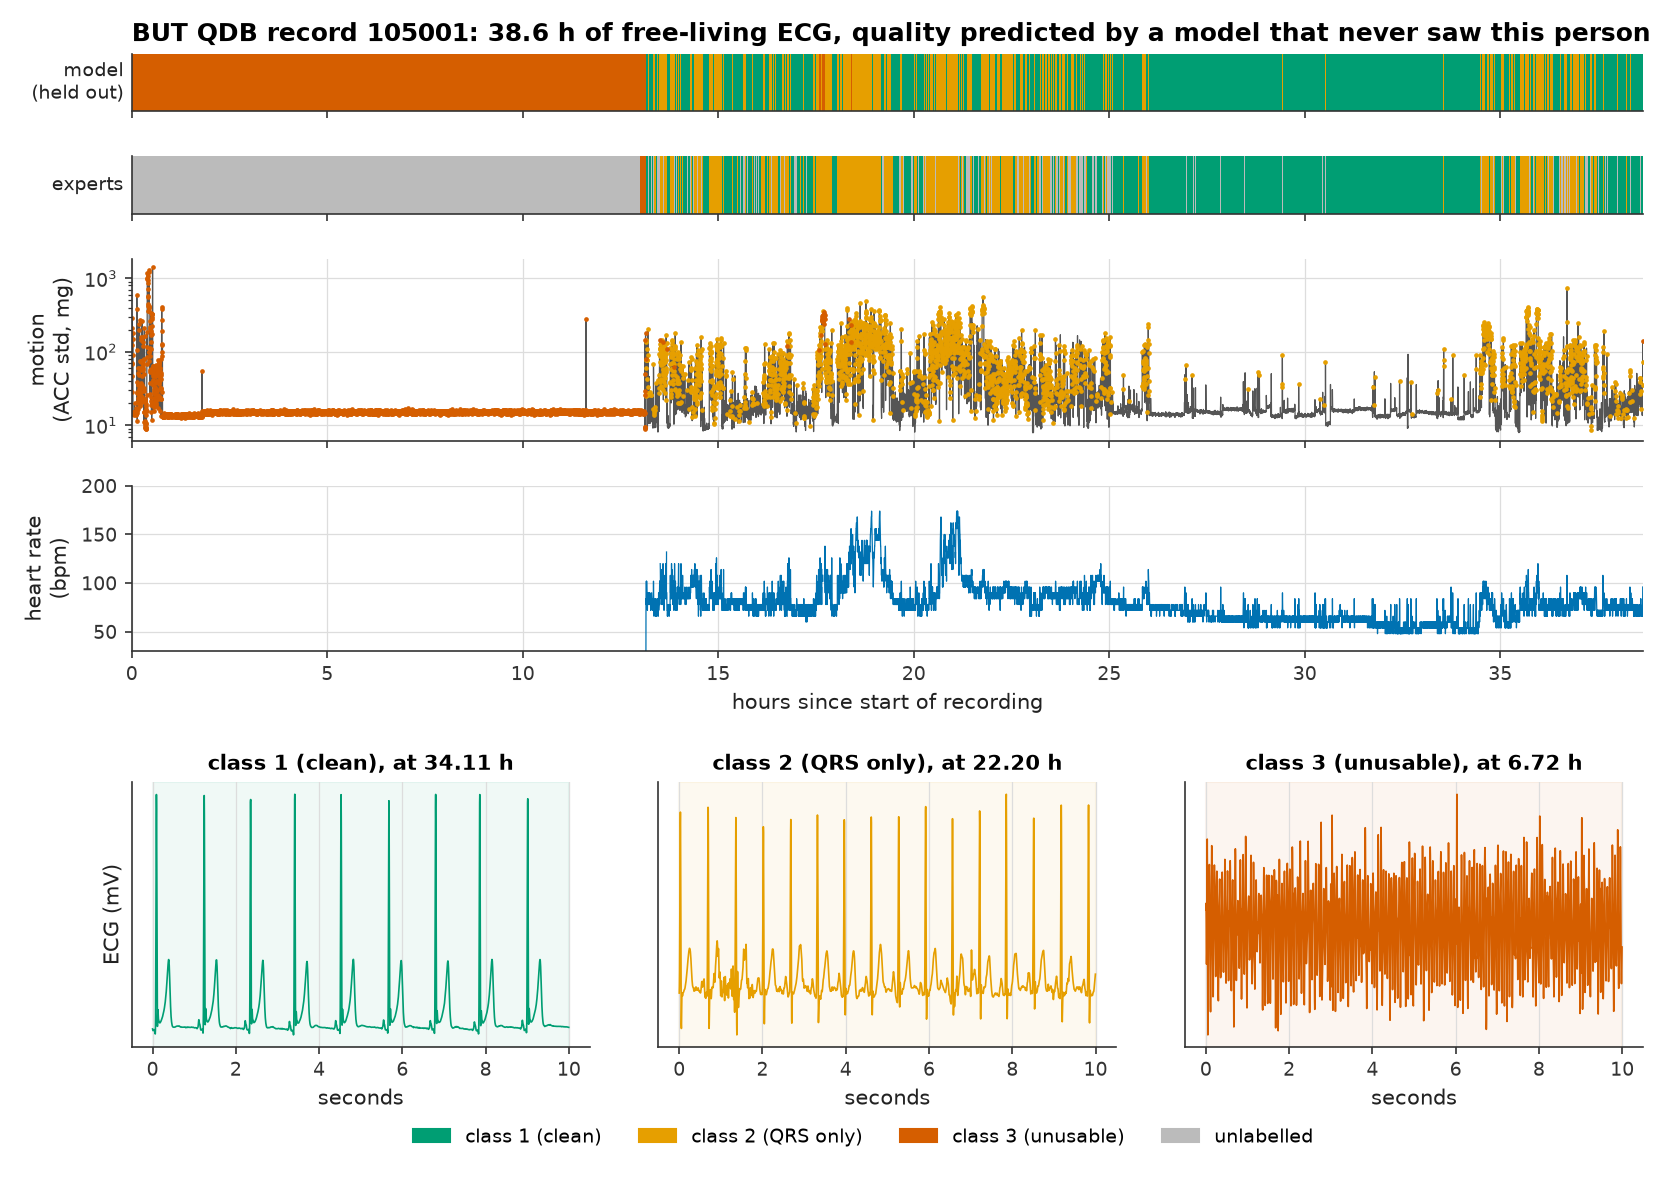
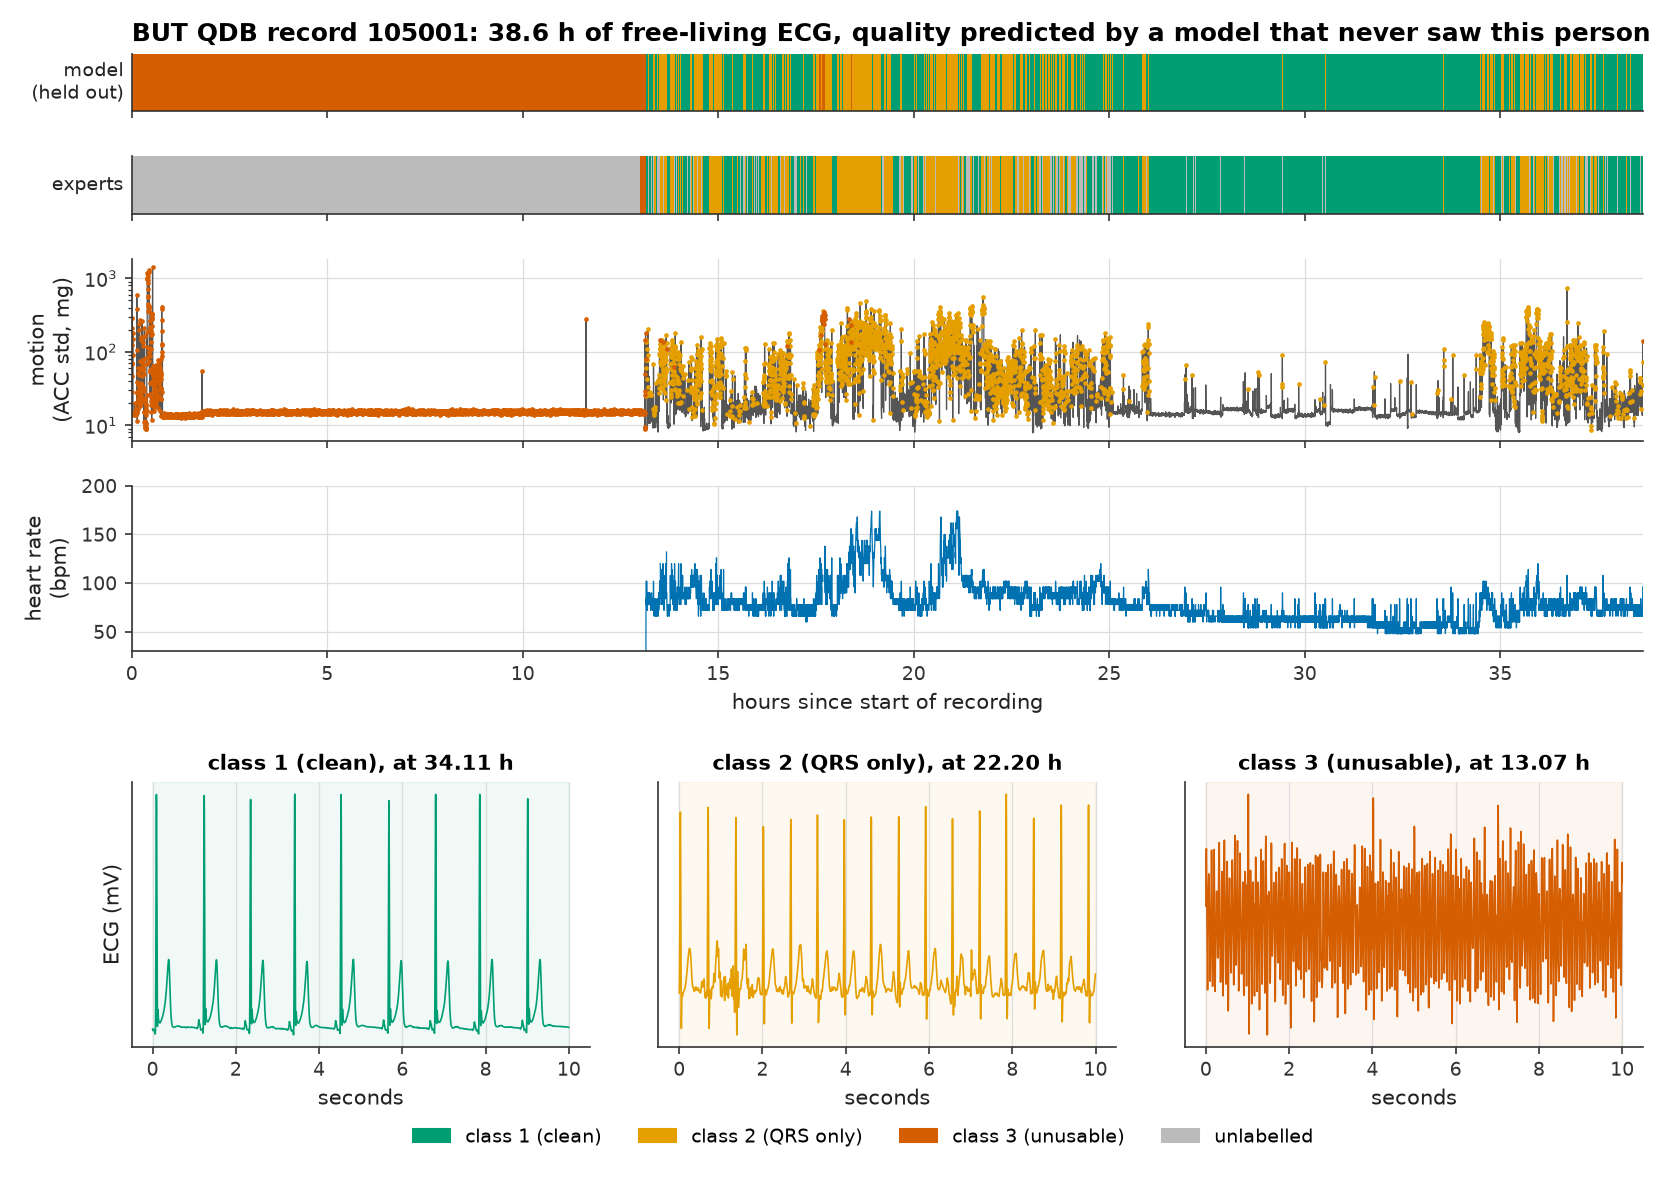
docs: pre-publish review fixes
- correct clean-window rejection claims (GBM 0.5 % and rule 6 % at -6 dB)
- qualify detector and baseline comparisons; plain-language one-liner
- window counts with and without the official ranges (count_windows.py)
- day figure examples restricted to official labels; caption explains the off-body stretch
- research-question figure titles no longer overlap; smaller hero GIF
- Quickstart lists every command behind the demo visuals
- strip local paths from logs; add notebooks/README.md

Changed region(s): [[0.7149, 0.7035, 0.9946, 0.887], [0.746, 0.6423, 0.9635, 0.6729]]

diff --git a/scripts/count_windows.py b/scripts/count_windows.py
@@ -1,0 +1,53 @@
+"""Count labelled 10 s windows per BUT QDB record, with and without the official ranges.
+
+`all_*` columns count every pure consensus-labelled window. `official_*` columns count only
+windows inside the dataset authors' annotated ranges (ecgq.io.OFFICIAL_RANGES), which is
+what every model in this project is trained and evaluated on (DECISIONS D14).
+
+Writes reports/metrics/butqdb_window_counts.csv (replacing the build-time version).
+
+Usage:
+    python scripts/count_windows.py --config configs/quality_butqdb.yaml
+"""
+
+from __future__ import annotations
+
+import argparse
+
+import numpy as np
+import pandas as pd
+
+from ecgq.io import official_window_mask, subject_of
+from ecgq.utils import REPO_ROOT, load_config
+
+
+def main(argv=None) -> int:
+    ap = argparse.ArgumentParser(description=__doc__)
+    ap.add_argument("--config", default=str(REPO_ROOT / "configs" / "quality_butqdb.yaml"))
+    args = ap.parse_args(argv)
+    cfg = load_config(args.config)
+    rows = []
+    for f in sorted((REPO_ROOT / cfg["processed_dir"]).glob("*.npz")):
+        z = np.load(f)
+        lab = z["labels"]
+        inside = official_window_mask(f.stem, z["starts"], float(z["fs"]), float(z["win_s"]))
+        row = {"record": f.stem, "subject": subject_of(f.stem),
+               "hours": len(lab) * float(z["win_s"]) / 3600, "windows": len(lab)}
+        for c in (1, 2, 3):
+            row[f"all_class{c}"] = int(np.sum(lab == c))
+        for c in (1, 2, 3):
+            row[f"official_class{c}"] = int(np.sum((lab == c) & inside))
+        rows.append(row)
+    df = pd.DataFrame(rows)
+    total = {"record": "total", "subject": "", "hours": df.hours.sum(),
+             "windows": df.windows.sum(), **{k: df[k].sum() for k in df.columns
+                                             if k.startswith(("all_", "official_"))}}
+    df = pd.concat([df, pd.DataFrame([total])], ignore_index=True)
+    out = REPO_ROOT / cfg["out_dir"] / "metrics" / "butqdb_window_counts.csv"
+    df.to_csv(out, index=False, float_format="%.2f")
+    print(df.tail(1).to_string(index=False))
+    return 0
+
+
+if __name__ == "__main__":
+    raise SystemExit(main())

diff --git a/scripts/make_figures.py b/scripts/make_figures.py
@@ -261,7 +261,8 @@ def fig_quality() -> None:
     pairs = [(a, b) for a, b in (("gbm_ecg", "gbm_ecg_acc"), ("cnn_ecg", "cnn_ecg_acc"))
              if a in per.columns and b in per.columns]
     if pairs:
-        fig, axs = plt.subplots(1, len(pairs), figsize=(5.2 * len(pairs), 4.6))
+        fig, axs = plt.subplots(1, len(pairs), figsize=(5.6 * len(pairs), 5.0))
+        fig.subplots_adjust(wspace=0.3)
         axs = np.atleast_1d(axs)
         for ax, (a, b) in zip(axs, pairs, strict=True):
             c = summ["comparisons"].get(f"{b}_vs_{a}", {})
@@ -275,7 +276,7 @@ def fig_quality() -> None:
             ax.set(xlim=(0, 1.02), ylim=(0, 1.02), xlabel=f"{names[a]}: subject macro-F1",
                    ylabel=f"{names[b]}: subject macro-F1",
                    title=f"{c.get('subjects_improved', '?')} of {c.get('subjects', '?')} subjects "
-                         f"improve, Wilcoxon p = {c.get('wilcoxon_p', np.nan):.3f}")
+                         f"improve\nWilcoxon p = {c.get('wilcoxon_p', np.nan):.3f}")
             ax.text(0.02, 0.97, f"pooled macro-F1 change, 95% CI\n[{ci[0]:+.3f}, {ci[1]:+.3f}]",
                     transform=ax.transAxes, va="top", fontsize=9)
         fig.suptitle("Do accelerometer features help on unseen subjects? (point size = windows)",

diff --git a/scripts/make_tables.py b/scripts/make_tables.py
@@ -110,8 +110,8 @@ def gate_table() -> str:
         rn = d["gbm_ecg"]["reject_rate_noisy"]
         rows.append(f"| {label} | {d['none']['f1']:.3f} | {fc('rule')} | {fc('gbm_ecg')} | "
                     f"{fc('cnn_ecg')} | {fc('oracle')} | "
-                    f"{'n/a' if rn != rn else f'{100 * rn:.0f} %'} | "
-                    f"{100 * d['gbm_ecg']['reject_rate_clean']:.0f} % |")
+                    f"{'n/a' if rn != rn else f'{100 * rn:.1f} %'} | "
+                    f"{100 * d['gbm_ecg']['reject_rate_clean']:.1f} % |")
     return "\n".join(rows)
 
 

diff --git a/scripts/make_demo.py b/scripts/make_demo.py
@@ -84,7 +84,8 @@ def fig_day(record: str) -> Path:
     rng = np.random.default_rng(0)
     for k, c in enumerate((1, 2, 3)):
         ax = fig.add_subplot(gs[5, k])
-        cand = np.flatnonzero((pred == c) & (lab == c))
+        # Examples only where the model agrees with an expert label inside the official ranges.
+        cand = np.flatnonzero((pred == c) & (lab_show == c))
         if len(cand) == 0:
             cand = np.flatnonzero(pred == c)
         if len(cand) == 0:

diff --git a/scripts/train_final.py b/scripts/train_final.py
@@ -52,7 +52,7 @@ def main(argv=None) -> int:
     save_json({"rule_thresholds": rule.params(), "n_windows": int(len(d)),
                "n_subjects": int(len(np.unique(d.subject)))},
               REPO_ROOT / cfg["out_dir"] / "metrics" / "final_models.json")
-    log.info("saved models to %s", out)
+    log.info("saved models to %s", out.relative_to(REPO_ROOT))
     return 0
 
 

diff --git a/README.md b/README.md
@@ -2,14 +2,14 @@
 
 # ECG signal quality and beat detection
 
-**A quality gate for wearable ECG that labels every 10 s as clean, QRS-only or unusable on people it has never seen (macro-F1 0.77 vs 0.63 for a rule-based baseline), with a Pan-Tompkins detector written from the 1985 paper (Se 99.68 %, +P 99.47 % on MIT-BIH).**
+**Tells a wearable ECG device which stretches of signal it can trust (clean, heartbeats only, or unusable), tested on people the model never saw: macro-F1 0.77 against 0.63 for a rule-based baseline. Includes a heartbeat detector written from the classic 1985 Pan-Tompkins paper that finds 99.68 % of beats on MIT-BIH.**
 
 ![Python](https://img.shields.io/badge/python-3.12-blue)
 ![License](https://img.shields.io/badge/license-MIT-green)
 ![CI](https://github.com/Adan-Khalid/ecg-quality-beat-detection/actions/workflows/ci.yml/badge.svg)
 
 <p align="center">
-  <img src="assets/hero.gif" alt="Scrolling wearable ECG with accelerometer below: during movement the signal stays usable and the model says class 2, then the ECG breaks down and the model switches to class 3 (unusable), matching the expert label" width="760">
+  <img src="assets/hero.gif" alt="Scrolling wearable ECG with accelerometer below: during movement the signal stays usable and the model says class 2, then the ECG breaks down and the model switches to class 3 (unusable), matching the expert label" width="640">
 </p>
 <p align="center"><em>BUT QDB record 114001, 90 s: the model (trained without this person) moves from "QRS only" to "unusable" as the ECG breaks down, matching the experts.</em></p>
 
@@ -69,7 +69,7 @@ flowchart LR
 <p align="center">
   <img src="reports/figures/qrs_mitdb_per_record.png" alt="Per-record F1 for the three detectors on all 48 MIT-BIH records, sorted by Pan-Tompkins F1; most records are above 0.99, record 108 is lowest" width="760">
 </p>
-<p align="center"><em>F1 per record. Both detectors written here match or beat the WFDB library detector; record 108 (large P waves, noise) is hardest for Pan-Tompkins.</em></p>
+<p align="center"><em>F1 per record. Overall, both detectors written here score at least the F1 of the WFDB library detector; per record each has its own hard cases, and record 108 (large P waves, noise) is hardest for Pan-Tompkins.</em></p>
 
 | Detector | Protocol | Se | +P | F1 | Timing MAE | Run time, 48 records |
 | --- | --- | --- | --- | --- | --- | --- |
@@ -84,7 +84,7 @@ flowchart LR
 <p align="center">
   <img src="reports/figures/quality_model_comparison.png" alt="Bar chart of per-class F1 and macro-F1 for six models; gradient boosting with ECG and accelerometer features has the highest macro-F1, 0.77, against 0.63 for the rule-based baseline" width="760">
 </p>
-<p align="center"><em>Pooled F1 over the 15 held-out subjects. Every learned ECG model beats the rule-based baseline; class 3 (unusable) stays the hardest class.</em></p>
+<p align="center"><em>Pooled F1 over the 15 held-out subjects. Every learned ECG model has a higher macro-F1 than the rule-based baseline, but the CNNs are worse than the rules on class 3 (unusable), which stays the hardest class.</em></p>
 
 <p align="center">
   <img src="reports/figures/quality_confusion.png" alt="Three confusion matrices: rule-based, gradient boosting with ECG and accelerometer, and 1D CNN with ECG and accelerometer" width="780">
@@ -137,7 +137,7 @@ Answer, based on this data: **no consistent benefit**. Hand-made motion features
 <p align="center">
   <img src="reports/figures/rejection_nstdb.png" alt="Three panels against noise level from clean to minus 6 dB: precision and sensitivity of Pan-Tompkins on kept windows, and the share of beats kept, for no gate, the rule gate, the gradient-boosting gate and an oracle" width="780">
 </p>
-<p align="center"><em>MIT-BIH noise stress test (records 118 and 119 with electrode-motion noise): the gates keep every clean window and lift precision as noise grows. Models were trained only on BUT QDB.</em></p>
+<p align="center"><em>MIT-BIH noise stress test (records 118 and 119 with electrode-motion noise): both gates lift precision as noise grows. Neither gate drops clean windows down to 0 dB; at -6 dB the GBM gate drops 0.5 % and the rule gate 6 % of them. Models were trained only on BUT QDB.</em></p>
 
 | SNR | No gate F1 | Rule gate F1 (beats kept) | GBM gate F1 (beats kept) | Oracle F1 (beats kept) |
 | --- | --- | --- | --- | --- |
@@ -164,7 +164,7 @@ Answer, based on this data: **no consistent benefit**. Hand-made motion features
 <p align="center">
   <img src="reports/figures/day_quality_105001.png" alt="38.6 hours of record 105001: predicted quality band, expert label band, accelerometer motion and heart rate, with one example 10 s strip for each class" width="800">
 </p>
-<p align="center"><em>A day and a half of free-living ECG coloured by predicted quality, next to the experts' labels and the motion recorded by the patch.</em></p>
+<p align="center"><em>A day and a half of free-living ECG coloured by predicted quality, next to the experts' labels and the motion recorded by the patch. In the first 13 h the patch was apparently off the body: the model calls it unusable, and the experts' benchmark leaves it out (grey).</em></p>
 
 An interactive explorer shows any recording, its quality timeline, and a zoomable ECG strip with the quality indices and model confidence for each window:
 
@@ -201,8 +201,14 @@ uv run python scripts/evaluate_fixed_split.py
 uv run python scripts/train_final.py
 uv run python scripts/evaluate_rejection.py
 uv run python scripts/predict_all.py
+uv run python scripts/count_windows.py
 uv run python scripts/make_figures.py all
 uv run python scripts/make_tables.py
+
+# Demo visuals
+uv run python scripts/make_demo.py day --record 105001
+uv run python scripts/make_demo.py gif --record 114001 --start-window 1124 --seconds 90 --step 0.75
+uv run python scripts/make_social_preview.py
 ```
 
 ## Data
@@ -218,7 +224,7 @@ Raw data is not in this repository. See [data/README.md](data/README.md) and [do
 ## Limitations and next steps
 
 - **Small and narrow data.** 15 subjects, one patch (Bittium Faros 180), one lead position, one country. Results may not hold for wrist ECG or other populations.
-- **Class 3 is rare.** 544 of 26,880 labelled windows, from 7 subjects, so class 3 scores have wide uncertainty.
+- **Class 3 is rare.** 544 of 26,880 labelled windows, from 7 subjects, so class 3 scores have wide uncertainty. Short unusable episodes inside a mostly clean day are the hardest case: in subject 100 (24 h, 20 class 3 windows) gradient boosting finds 1 of them and the CNN 14 (`reports/metrics/quality_loso_predictions.csv.gz`).
 - **Abnormal rhythms.** BUT QDB is mostly sinus rhythm. The CNN rejected a clean bundle branch block recording; any model here should be checked on arrhythmias before use.
 - **Offline only.** Zero-phase filters and 10 s windows; not a real-time or embedded implementation.
 - **No MATLAB cross-check.** MATLAB was not available; the filters are cross-checked in Python against the paper's equations instead.

diff --git a/reports/results_tables.md b/reports/results_tables.md
@@ -56,13 +56,13 @@ Train: 11 records; test: 7 records from other subjects; scored per sample inside
 
 | SNR | No gate F1 | Rule gate F1 (beats kept) | GBM gate F1 (beats kept) | CNN gate F1 (beats kept) | Oracle F1 (beats kept) | GBM: noisy windows rejected | GBM: clean windows rejected |
 | --- | --- | --- | --- | --- | --- | --- | --- |
-| clean | 1.000 | 1.000 (100 %) | 1.000 (100 %) | 1.000 (50 %) | 1.000 (100 %) | n/a | 0 % |
-| 24 dB | 1.000 | 1.000 (100 %) | 1.000 (100 %) | 1.000 (50 %) | 1.000 (56 %) | 0 % | 0 % |
-| 18 dB | 0.997 | 0.998 (98 %) | 0.997 (100 %) | 0.996 (50 %) | 1.000 (56 %) | 0 % | 0 % |
-| 12 dB | 0.936 | 0.977 (81 %) | 0.945 (95 %) | 0.948 (45 %) | 1.000 (56 %) | 11 % | 0 % |
-| 6 dB | 0.861 | 0.951 (72 %) | 0.914 (82 %) | 0.982 (32 %) | 1.000 (56 %) | 42 % | 0 % |
-| 0 dB | 0.814 | 0.919 (68 %) | 0.910 (72 %) | 0.999 (28 %) | 1.000 (56 %) | 65 % | 0 % |
-| -6 dB | 0.743 | 0.828 (73 %) | 0.839 (73 %) | 0.996 (28 %) | 0.967 (56 %) | 61 % | 0 % |
+| clean | 1.000 | 1.000 (100 %) | 1.000 (100 %) | 1.000 (50 %) | 1.000 (100 %) | n/a | 0.0 % |
+| 24 dB | 1.000 | 1.000 (100 %) | 1.000 (100 %) | 1.000 (50 %) | 1.000 (56 %) | 0.0 % | 0.0 % |
+| 18 dB | 0.997 | 0.998 (98 %) | 0.997 (100 %) | 0.996 (50 %) | 1.000 (56 %) | 0.0 % | 0.0 % |
+| 12 dB | 0.936 | 0.977 (81 %) | 0.945 (95 %) | 0.948 (45 %) | 1.000 (56 %) | 10.8 % | 0.0 % |
+| 6 dB | 0.861 | 0.951 (72 %) | 0.914 (82 %) | 0.982 (32 %) | 1.000 (56 %) | 41.8 % | 0.0 % |
+| 0 dB | 0.814 | 0.919 (68 %) | 0.910 (72 %) | 0.999 (28 %) | 1.000 (56 %) | 64.6 % | 0.0 % |
+| -6 dB | 0.743 | 0.828 (73 %) | 0.839 (73 %) | 0.996 (28 %) | 0.967 (56 %) | 60.8 % | 0.5 % |
 
 ## Held-out predictions over whole recordings
 

diff --git a/docs/EXPERIMENTS.md b/docs/EXPERIMENTS.md
@@ -69,7 +69,7 @@ Every run that produced a number, in order. Config files are in `configs/`, seed
 
 - Config: `configs/rejection_nstdb.yaml`. Models: `scripts/train_final.py` (all 15 subjects, CNN 6 epochs x 8,000 samples). Command: `python scripts/evaluate_rejection.py`
 - First run had a broken oracle: NSTDB files carry a different DC offset from MIT-BIH, so subtracting the clean record marked every window as noisy. Fixed by using the per-window standard deviation of the difference (D16); the documented schedule (noise from minute 5, 2 min on, 2 min off) is then recovered exactly.
-- Results (`reports/metrics/rejection_nstdb_summary.json`): Pan-Tompkins F1 without a gate falls from 1.000 (clean) to 0.861 (6 dB), 0.814 (0 dB) and 0.743 (-6 dB). The GBM gate raises it to 0.914, 0.910 and 0.839 while keeping 82 %, 72 % and 73 % of beats; the rule gate to 0.951, 0.919 and 0.828 (72 %, 68 %, 73 % kept). Neither rejects any clean window.
+- Results (`reports/metrics/rejection_nstdb_summary.json`): Pan-Tompkins F1 without a gate falls from 1.000 (clean) to 0.861 (6 dB), 0.814 (0 dB) and 0.743 (-6 dB). The GBM gate raises it to 0.914, 0.910 and 0.839 while keeping 82 %, 72 % and 73 % of beats; the rule gate to 0.951, 0.919 and 0.828 (72 %, 68 %, 73 % kept). Neither gate rejects clean windows down to 0 dB; at -6 dB the GBM gate rejects 0.5 % and the rule gate 6 % of them.
 - The ECG-only CNN gate rejects all of record 118 (right bundle branch block: a wide, notched QRS never seen in BUT QDB) including its clean minutes, and works as intended on record 119. It confuses unfamiliar morphology with noise.
 
 ## E9. 1D CNN, LOSO

diff --git a/notebooks/README.md b/notebooks/README.md
@@ -1,0 +1,3 @@
+# Notebooks
+
+Exploration only. This project has no notebooks: every number and figure is produced by a script in `scripts/` so it can be re-run from a clean clone (see the README Quickstart). Use this folder for scratch exploration; results that matter go into a script and `reports/`.
